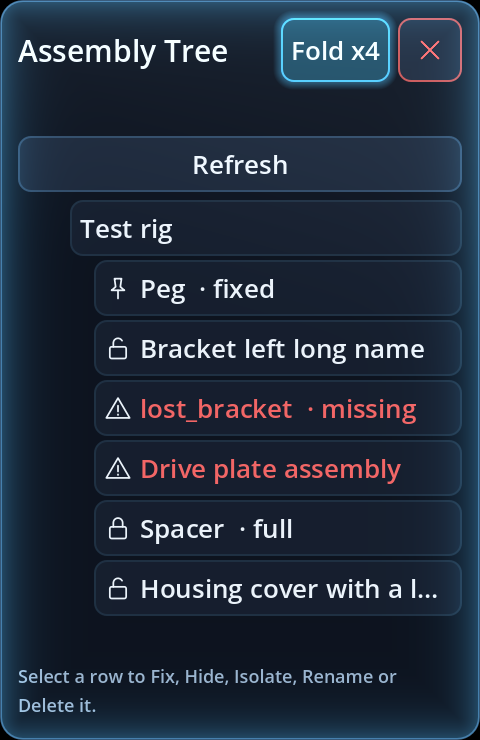
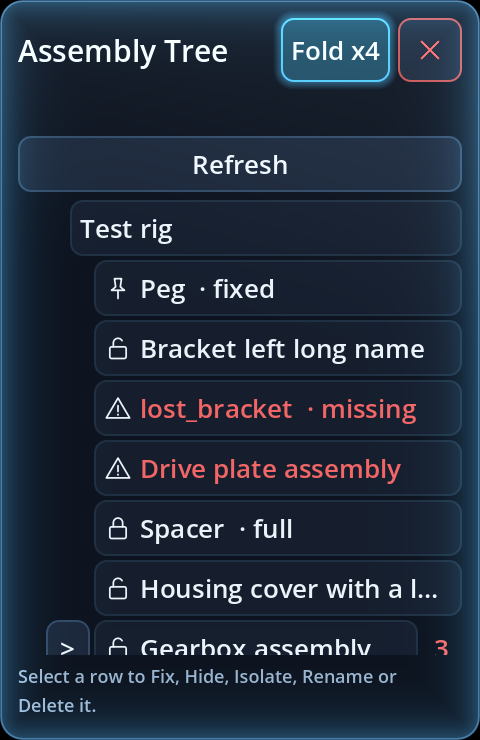
Tree A5.1: review fixes (restart dropped first load, clear pending on status failure, fit hints to the real button, tool-level Fix/Float signal)
- A dropped first answer with no rows shown restarts the load (was stuck on "Loading...").
- A failed ?status=true clears pending (was "updating" for good).
- Row extras are fitted to the name button's real width, theme font, icon and padding after layout
  (problem bubble and the design table's Table / Bring buttons no longer ignored).
- mates_tool emits occurrence_fixed_changed from set_occurrence_fixed; the tree marks the rows
  (tablet Fix / Float, Undo, Redo).
- Pending hint is the word "updating"; the exact bar check in assembly_tree_races is a real check.

Claude-Session: https://claude.ai/code/session_01UQ8ToLWGNruYMz3mSBJd3P

diff --git a/tests/README.md b/tests/README.md
@@ -243,8 +243,8 @@ feel. Say what you couldn't verify.
 | `room_minimise.gd` | **Minimise / restore a room** (R3), headless with a stand-in user and the fake document: minimising shrinks the walls and content uniformly to a 0.4 m longest side hovering with its underside at 0.9 m over the same spot, in proportion, content keeping its place in the box; it can't be touched (not interactive, handles disabled, console closed), the clip row follows; a second minimise and a restore of an unminimised room do nothing; restore brings back the exact box, content pose, touchability, handles and console; restore is refused while another room occupies the old space and works once it is gone; the manager wrappers; delete-selected with nothing selected does nothing; **Bring to me** moves a room (box, content and clip row together) to a clear spot in front of the user and brings a minimised one back full size; the **thumbnail** copy holds the room's parts without the clip material and its camera frames them (no image headless); **New room** makes a new Part, places it on the root as "Sub-assembly N" and opens a room for it. Every SMOKE line `true`. |
 | `group_select.gd` | **Choosing a sub-assembly** (R3b), headless, a real controller, a recording stand-in for the mates tool and the fake document: the occurrence tree is replayed over the flat glb order so two instances of one sub-assembly get different paths (a hidden occurrence's missing node is skipped, an unmatched node stays a plain part, rooms don't mix); a bolt in a bracket in a drive offers the bolt then the drive (a single-part level is dropped), labelled by name; a group moves as one (anchor moves/turns, the rest follow, restore); a grip on a part inside a sub-assembly latches, shows the dead-zone sphere and brackets, ignores small hand movement, each trigger click widens one level (and wraps), leaving the zone takes the chosen level and clears the cues; the group follows the hand and is one undo step that saves the sub-assembly's own occurrence at the moved pose (undo/redo save the old/new pose); letting go in the dead zone takes and records nothing; a mated or grounded sub-assembly is refused with a message; dead zone Off and top-level parts grab at once; a laser-selected group lights up, follows the anchor and is carried whole by a grip with no choosing; holding the trigger opens the breadcrumb, the laser lights a row, letting go selects that level or keeps the part. Every SMOKE line `true`. **V-2 (11 Nov):** a latched grip marks the hand busy for the whole-model gesture, the selected part is not turned or pushed meanwhile, and the mark clears when the hold starts. **V-1 (11 Nov):** refusals reach the hand (`tool_message`) and the status line at any depth, a fixed level or a fixed assembly above it refuses, the cycling caption marks "(fixed)", relaxed mates refuse nothing. |
 | `keyboard_dock.gd` | **V-8 keyboard dock** (`docs/vr-feedback-2026-11-11-plan.md`), full `main.tscn`, no backend. With a sketch open on the table: `table.open_keyboard` opens the keypad at `keyboard_dock()` (within 1 cm), on the camera's side of the sheet, in front of the deck's lower edge, leaning back towards the eyes; a full keyboard hangs from the same top-edge point; a pose the keyboard was carried to is kept in the console's frame and survives the console moving; no context = 0.6 m in front of the eyes as before; a quad between the eyes and the pad pulls it closer (never under 0.3 m), one behind it changes nothing; the sheet's quad is offered as an obstacle only while a sketch is open. Every boolean line `true`. Can't check: reach and readability on a headset. |
-| `assembly_tree_races.gd` | **Tree A5.1.** The Assembly Tree against a slow fake backend (full scene, no real backend; the window's `request_hook` holds one answer back). A `?status=true` answer sent before a Float and delivered after it is dropped (the row does not go back to a pin) and the read that follows settles on the backend's truth; straight after a Float the row says `updating` (state `pending`: no icon, never a blank or a wrong state), also while only the structure has arrived; the row's own hint is one short word (`missing`, `under 2`, `over`) and the full reason (`missing file: lost_bracket`, `under-constrained (2 DOF)`) is in the bottom bar for the selected row. Every boolean line `true`. Without the stale-answer guard, 1b prints `false`. |
-| `assembly_tree_render.gd` | *needs Xvfb + Mesa; in `ci_render.sh`.* **Tree A5.1.** The Assembly Tree window's 480 px panel drawn for real with long names and every state: no row's hint is cut off, a name too long alone ends in an ellipsis and drops the hint, the missing file reads `lost_bracket  · missing`, the bottom bar carries the full reason for the selected row. `TREE_RENDER_DIR=<dir>` also writes `tree_rows.png` / `tree_selected.png` (the before/after in `docs/images/tree-a5-1/`). A Mesa render, not the headset. |
+| `assembly_tree_races.gd` | **Tree A5.1.** The Assembly Tree against a slow fake backend (full scene, no real backend; the window's `request_hook` holds one answer back). A `?status=true` answer sent before a Float and delivered after it is dropped (the row does not go back to a pin) and the read that follows settles on the backend's truth; straight after a Float the row says `updating` (state `pending`: no icon, never a blank or a wrong state), also while only the structure has arrived; a dropped first answer restarts the load (not stuck on `Loading...`); a failed `?status=true` clears `updating`; a Fix / Float from outside the bar (a tool call as the tablet makes it, Undo, Redo) marks the row through `mates_tool`'s `occurrence_fixed_changed`; the row's own hint is one short word (`missing`, `under 2`, `over`) and the full reason (`missing file: lost_bracket`, `under-constrained (2 DOF)`) is in the bottom bar for the selected row. Every boolean line `true`. Without the stale-answer guard, 1b prints `false`. |
+| `assembly_tree_render.gd` | *needs Xvfb + Mesa; in `ci_render.sh`.* **Tree A5.1.** The Assembly Tree window's 480 px panel drawn for real with long names and every state: no row's hint is cut off, a name too long alone ends in an ellipsis and drops the hint, the missing file reads `lost_bracket  · missing`, the bottom bar carries the full reason for the selected row; a row with a problem bubble and the design table's tree (Table / Bring beside the names) have no hint cut off. `TREE_RENDER_DIR=<dir>` also writes `tree_rows.png` / `tree_selected.png` (the before/after in `docs/images/tree-a5-1/`). A Mesa render, not the headset. |
 | `occurrence_tree_model.gd` | **Assembly Tree model** (V-7 / T1), pure, no scene: rows from OccurrenceResponse dicts (flags, paths), instance names `Bolt <1>` / `Bolt <2>` (user-named rows keep their names, a single placement is plain), the state icon and hint per row, the bar's actions per row kind (root, top-level, nested, missing file) with a reason when greyed, Delete's "edits all N placements" warning, find by path (two placements of one sub-assembly are two rows: B1), a refresh that keeps what was expanded (B4), the ancestors to expand. Every boolean line `true`. **M5:** `set_note` (a rigid set's lead reads "moves with N other parts", the others "moves with <lead>", a loose part nothing) and `set_colour_index` (one colour slot per set at a level). **Tree A5:** the DIDSA-CAD spec (`docs/assembly-tree/spec.md`) as pure functions (display names and `Bolt <2>`, grouping, the state slot, problem counts and bubbles, `visible_rows`, `reveal_keys`), and **every case of `tests/fixtures/assembly_tree_vectors.json`** (36: rows and reveal) compared exactly; the rows built from the endpoint's nodes, the refresh merge and the status carry-over. |
 | `occurrence_tree_actions.gd` | **Assembly Tree against a world** (V-7 / T1), full `main.tscn`, a fake backend answering the window and a recording stand-in for the mates tool: B1 (a child row under the second placement selects the second's part), a sub-assembly row selects its group, the root row selects every part (B2), pressing a row again clears, a row with nothing on screen says so, world -> tree expands, marks and scrolls, Hide / Isolate are view-only and undoable, Fix / Float PATCHes the parent Part's occurrence at depth with one undo step and the V-1 refusal follows, Rename PATCHes `name_override` undoably, B3's warning, B4 (a refresh keeps the open rows and the selection). Every boolean line `true`. Can't check: the look and reach in a headset, the pulse. **Tree A5:** runs the whole scenario twice, against a fake backend that serves `GET /parts/{id}/assembly-tree` (one structure call then `?status=true`, no `/occurrences` reads) and against one that answers 404 (the per-level fallback); in the first it also checks the grouping fold (4 siblings -> `Bolt x4`), the header switch and that it is saved in the settings. |
 | `mates_relax_fix.gd` | **Relax fix** (V-6): the pure grounded cluster (reachable through mates from a fixed part; couplers and limits skipped; none without a fixed part), then with the in-memory backend and a real controller: turning it on remembers every part and sends nothing, a grip on the fixed part carries A, B and C rigidly (relative poses unchanged) while D, E, F stay, no PATCH and one non-saving undo step, a member the backend calls fully constrained carries too while one with free motion does not, Return puts every pose back in ONE undo step (undo / redo), V-1's refusal lets a fixed level through while it is on, Relax all promotes keeping the homes, Relax fix while relaxed is a no-op, off by default. Every boolean line `true`. Can't check: the feel, the real solver. |
